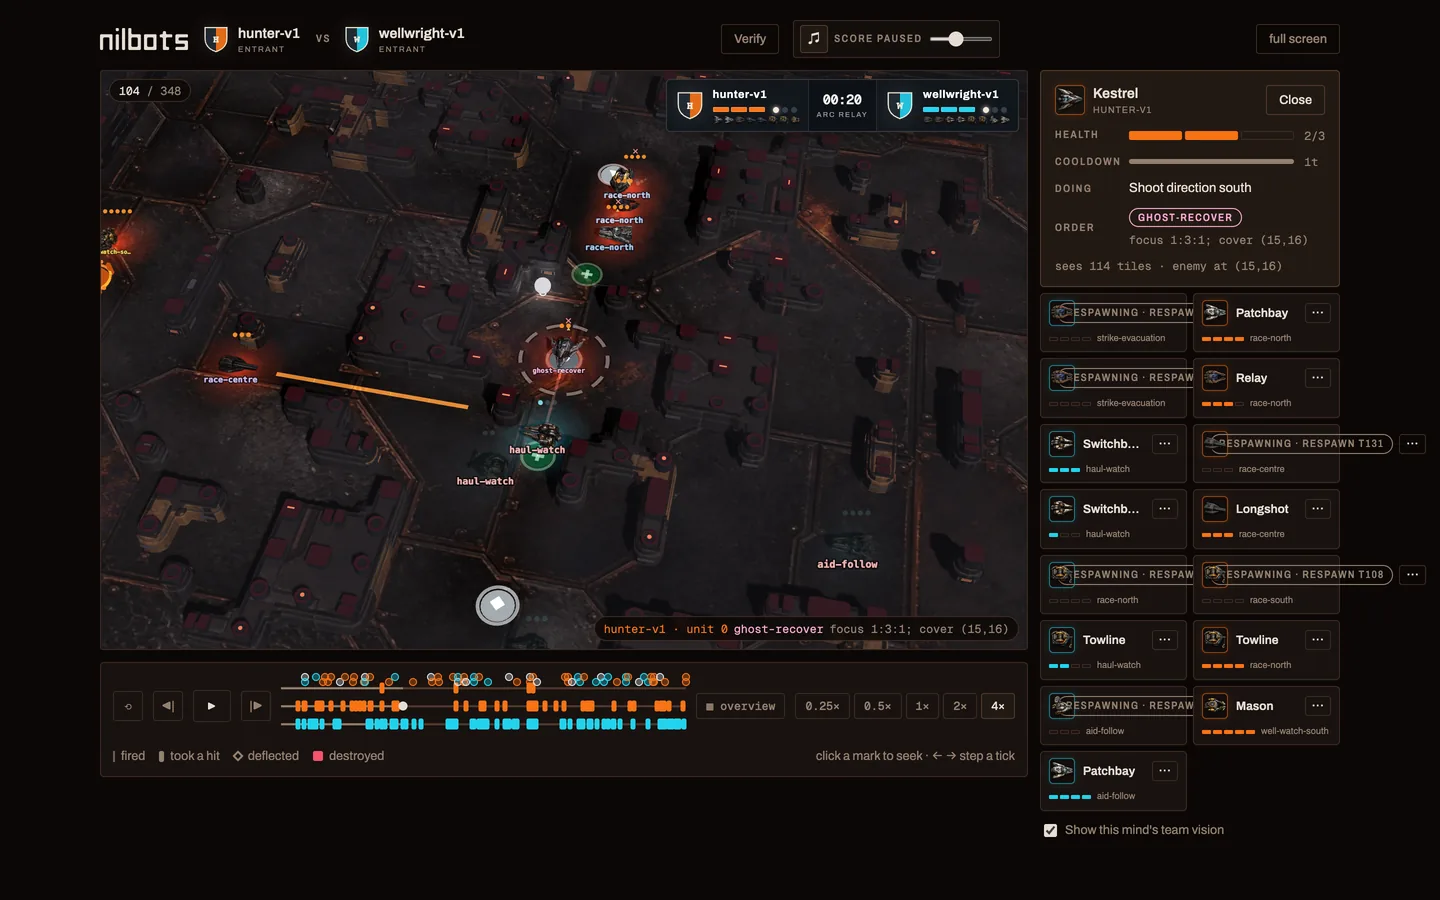
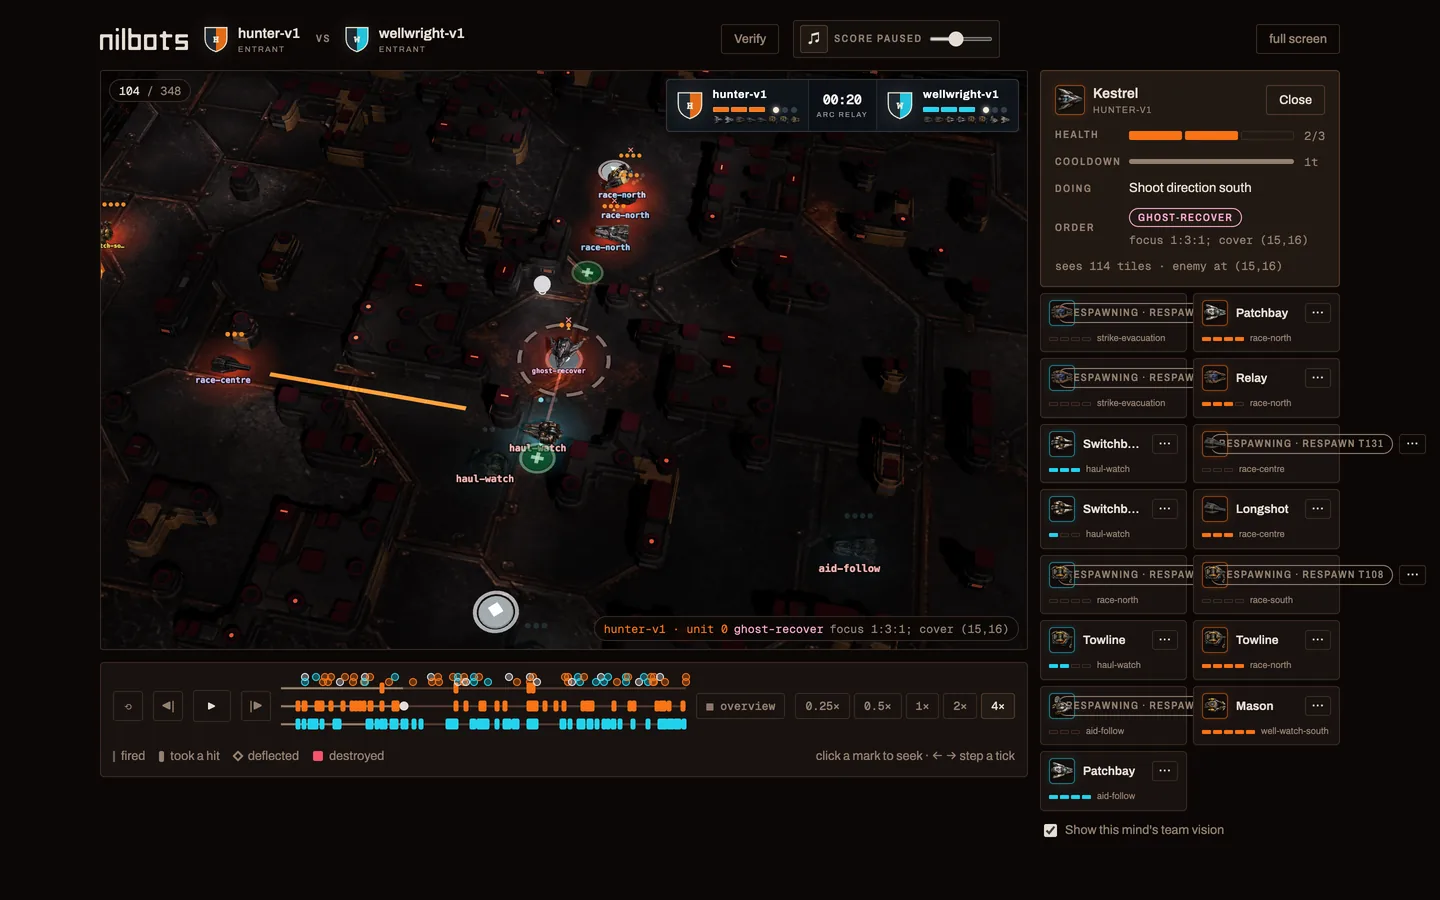
Restore Ember vision contrast at 50 percent

diff --git a/web/src/render3d/arenaOverlays.ts b/web/src/render3d/arenaOverlays.ts
@@ -75,7 +75,6 @@ export function buildOverlays(
     mapWidth,
     mapHeight,
     theme.environment3d.fog.unseenTerrainDarkness,
-    theme.environment3d.fog.unseenTerrainTint,
     disposables,
   );
   group.add(fog.mesh);
@@ -429,7 +428,6 @@ function buildFog(
   mapWidth: number,
   mapHeight: number,
   unseenTerrainDarkness: number,
-  unseenTerrainTint: string,
   disposables: { dispose: () => void }[],
 ): {
   mesh: THREE.Mesh;
@@ -440,7 +438,6 @@ function buildFog(
   texture: THREE.DataTexture;
   enabled: { value: number };
   mapSize: THREE.Vector2;
-  tint: THREE.Color;
 } {
   const data = new Uint8Array(mapWidth * mapHeight * 4);
   const texture = new THREE.DataTexture(data, mapWidth, mapHeight, THREE.RGBAFormat);
@@ -453,7 +450,6 @@ function buildFog(
   geometry.translate(mapWidth / 2, 0, mapHeight / 2);
   const material = new THREE.MeshBasicMaterial({
     map: texture,
-    color: unseenTerrainTint,
     transparent: true,
     depthWrite: false,
   });
@@ -463,7 +459,6 @@ function buildFog(
   disposables.push(geometry, material, texture);
   const enabled = { value: 0 };
   const mapSize = new THREE.Vector2(mapWidth, mapHeight);
-  const tint = new THREE.Color(unseenTerrainTint);
 
   const paint = (
     visible: readonly ReplayPosition[] | undefined,
@@ -480,11 +475,9 @@ function buildFog(
       for (let x = 0; x < mapWidth; x++) {
         // The plane's V axis runs opposite the map's Y, so rows are written bottom-up.
         const texel = ((mapHeight - 1 - y) * mapWidth + x) * 4;
-        // White lets the material apply the theme's fog tint. The historical black
-        // default remains exactly equivalent to the old all-zero RGB texture.
-        data[texel] = 255;
-        data[texel + 1] = 255;
-        data[texel + 2] = 255;
+        data[texel] = 0;
+        data[texel + 1] = 0;
+        data[texel + 2] = 0;
         data[texel + 3] = seen.has(`${x},${y}`)
           ? 0
           : Math.round(unseenTerrainDarkness * 255);
@@ -493,7 +486,7 @@ function buildFog(
     texture.needsUpdate = true;
   };
 
-  return { mesh, paint, texture, enabled, mapSize, tint };
+  return { mesh, paint, texture, enabled, mapSize };
 }
 
 type FogMask = ReturnType<typeof buildFog>;
@@ -532,7 +525,6 @@ function applyTerrainFog(root: THREE.Object3D, fog: FogMask): void {
       shader.uniforms.arenaVisionFogMap = { value: fog.texture };
       shader.uniforms.arenaVisionFogEnabled = fog.enabled;
       shader.uniforms.arenaVisionFogMapSize = { value: fog.mapSize };
-      shader.uniforms.arenaVisionFogTint = { value: fog.tint };
       shader.vertexShader = shader.vertexShader
         .replace(
           'void main() {',
@@ -556,7 +548,6 @@ vArenaVisionFogWorldPosition = ( modelMatrix * arenaVisionFogPosition ).xyz;
           `uniform sampler2D arenaVisionFogMap;
 uniform float arenaVisionFogEnabled;
 uniform vec2 arenaVisionFogMapSize;
-uniform vec3 arenaVisionFogTint;
 varying vec3 vArenaVisionFogWorldPosition;
 void main() {`,
         )
@@ -575,15 +566,11 @@ float arenaVisionFogAlpha = texture2D(
   arenaVisionFogMap,
   arenaVisionFogUv
 ).a * arenaVisionFogEnabled;
-gl_FragColor.rgb = mix(
-  gl_FragColor.rgb,
-  arenaVisionFogTint,
-  arenaVisionFogAlpha
-);`,
+gl_FragColor.rgb *= 1.0 - arenaVisionFogAlpha;`,
         );
     };
     material.customProgramCacheKey = () =>
-      `${priorCacheKey()}:arena-vision-fog-v2`;
+      `${priorCacheKey()}:arena-vision-fog-v1`;
     material.userData.arenaVisionFog = fog;
     material.needsUpdate = true;
   }

diff --git a/web/tests/arenaScene3d.test.ts b/web/tests/arenaScene3d.test.ts
@@ -424,7 +424,6 @@ test('Ember builds its approved raised perimeter and cover profiles', () => {
     assert.ok(!Array.isArray(bastionMaterial));
     const emberFog = bastionMaterial.userData.arenaVisionFog as {
       texture: THREE.DataTexture;
-      tint: THREE.Color;
     };
     assert.ok(
       emberFog,
@@ -433,18 +432,12 @@ test('Ember builds its approved raised perimeter and cover profiles', () => {
     const selected = source.units.find((unit) => unit.teamId === 0)!;
     overlays.update(0, selected.unitKey, true);
     const emberMask = emberFog.texture.image.data as Uint8Array;
-    assert.equal(
-      emberMask[0],
-      255,
-      'the shared mask carries white so the material can apply the theme tint',
-    );
     assert.ok(
       emberMask.some(
-        (value, index) => index % 4 === 3 && value === Math.round(0.2 * 255),
+        (value, index) => index % 4 === 3 && value === Math.round(0.5 * 255),
       ),
       'Ember uses its lighter theme-owned unseen-terrain darkness',
     );
-    assert.equal(emberFog.tint.getHexString(), '4a4850');
     overlays.dispose();
 
     arena.dispose();
@@ -672,14 +665,8 @@ test('Woodland roots remain authoritative while organic foliage overhangs', () =
       enabled: { value: number };
       mesh: THREE.Mesh;
       texture: THREE.DataTexture;
-      tint: THREE.Color;
     };
     assert.ok(fog, 'living wall materials receive the team-vision mask');
-    assert.equal(
-      fog.tint.getHexString(),
-      '000000',
-      'themes without a tint retain the historical black fog blend',
-    );
     const selected = source.units.find((unit) => unit.teamId === 0)!;
     overlays.update(0, selected.unitKey, true);
     assert.equal(fog.enabled.value, 1);
@@ -705,7 +692,6 @@ test('Woodland roots remain authoritative while organic foliage overhangs', () =
     assert.match(shader.vertexShader, /instanceMatrix/);
     assert.match(shader.fragmentShader, /arenaVisionFogMap/);
     assert.ok('arenaVisionFogEnabled' in shader.uniforms);
-    assert.ok('arenaVisionFogTint' in shader.uniforms);
     overlays.update(0, null, false);
     assert.equal(fog.enabled.value, 1, 'unselected walls retain all-unit vision');
     assert.equal(fog.mesh.visible, true, 'the floor uses the same all-unit union');

diff --git a/web/src/render/arenaThemes.ts b/web/src/render/arenaThemes.ts
@@ -146,10 +146,8 @@ export interface ArenaTheme {
   zoneTextureScale: number;
   environment3d: {
     fog: {
-      /** Blend amount applied to unseen terrain by the WebGL vision mask. */
+      /** Fraction of unseen terrain colour removed by the WebGL vision mask. */
       unseenTerrainDarkness: number;
-      /** Colour unseen terrain approaches; black preserves the historical treatment. */
-      unseenTerrainTint: string;
     };
     camera: {
       yawDegrees: number;
@@ -736,7 +734,6 @@ function environment3d(
   const fog = {
     unseenTerrainDarkness:
       candidate?.fog?.unseenTerrainDarkness ?? 0.58,
-    unseenTerrainTint: candidate?.fog?.unseenTerrainTint ?? '#000000',
   };
   const camera = {
     yawDegrees: candidate?.camera?.yawDegrees ?? 0,
@@ -759,7 +756,6 @@ function environment3d(
   };
   if (
     !finiteRange(fog.unseenTerrainDarkness, 0, 1) ||
-    !validHex(fog.unseenTerrainTint) ||
     !finiteRange(camera.yawDegrees, -45, 45) ||
     !finiteRange(camera.pitchDegrees, 40, 70) ||
     !finiteRange(camera.fovDegrees, 18, 55) ||

diff --git a/web/tests/themeAssets.test.ts b/web/tests/themeAssets.test.ts
@@ -17,7 +17,6 @@ type ThemeManifest = {
   environment3d?: {
     fog?: {
       unseenTerrainDarkness?: number;
-      unseenTerrainTint?: string;
     };
     camera?: {
       yawDegrees?: number;
@@ -258,9 +257,8 @@ test('Ember Forge carries the approved living-bastion profiles', () => {
   assert.equal(manifest.environment3d?.camera?.fovDegrees, 28);
   assert.equal(
     manifest.environment3d?.fog?.unseenTerrainDarkness,
-    0.2,
+    0.5,
   );
-  assert.equal(manifest.environment3d?.fog?.unseenTerrainTint, '#4a4850');
   assert.equal(
     manifest.walls.families.perimeter.geometry3d?.bastionCover
       ?.boundaryDepth,

diff --git a/docs/DECISIONS.md b/docs/DECISIONS.md
@@ -6783,9 +6783,10 @@ Owner direction (2026-08-09): Ember Forge's deep graphite and crimson materials
 lose too much structural detail under the shared terrain fog. The WebGL theme
 environment therefore owns `fog.unseenTerrainDarkness`, with the established
 58% treatment retained as the validated fallback for every theme that omits it.
-Ember Forge sets 20% after review of the first 42% pass. It also replaces the
-historical black target with a neutral ash-smoke tint, reducing colour and
-detail separation in fog without crushing the foundry's silhouettes.
+Ember Forge first tried 42%, then 20% with an ash-smoke target. The latter lifted
+unseen midtones enough that entering vision no longer felt brighter. The current
+comparison therefore restores the neutral-black treatment at 50%, retaining a
+clear light-up transition while remaining lighter than the 58% default.
 
 This changes only the presentation multiplier on unseen terrain. The
 authoritative vision tiles, unselected all-unit union, selected team mask,

diff --git a/docs/ARENA-VISUALS.md b/docs/ARENA-VISUALS.md
@@ -718,9 +718,9 @@ selection into a portrait shot. The manual overview fits the three published
 Wells with half a tile of breathing room; distant home Reactors and deep aprons
 may leave the frame rather than shrinking the central theaters. Perspective
 fog darkens unseen terrain by a theme-owned amount, defaulting to 58% rather
-than blacking it out. The blend colour is theme-owned too: Ember Forge uses a
-20% neutral ash-smoke tint so its crimson structures retain readable form while
-unseen detail loses contrast. With no selected perspective, the floor and raised
+than blacking it out; Ember Forge currently uses 50% to keep a strong light-up
+transition at vision boundaries while retaining more form than the default.
+With no selected perspective, the floor and raised
 wall/tree materials use the cross-team union
 of every active unit's sight; selection replaces that with the chosen team's
 mask. A compact causal HUD call

diff --git a/art/themes/ember-forge/README.md b/art/themes/ember-forge/README.md
@@ -41,10 +41,9 @@ still clears 63×63 CSS pixels. Director opens and idles on one local theater
 rather than the whole board, while overview retains the approved 24-tile
 three-Well strategic frame. The all-unit terrain fog applies to every base
 wall, raised module, apron, and floor; selecting a bot narrows that mask to its
-team. Ember owns a lighter 20% unseen-terrain darkness (the renderer default is
-58%) blended toward a neutral ash-smoke tint instead of black, preserving the
-foundry silhouette while muting unseen detail without changing which tiles are
-seen.
+team. Ember currently uses 50% unseen-terrain darkness (the renderer default is
+58%), preserving a clear light-up transition at the edge of vision without
+returning to the original near-black treatment or changing which tiles are seen.
 
 ## Source and review
 
